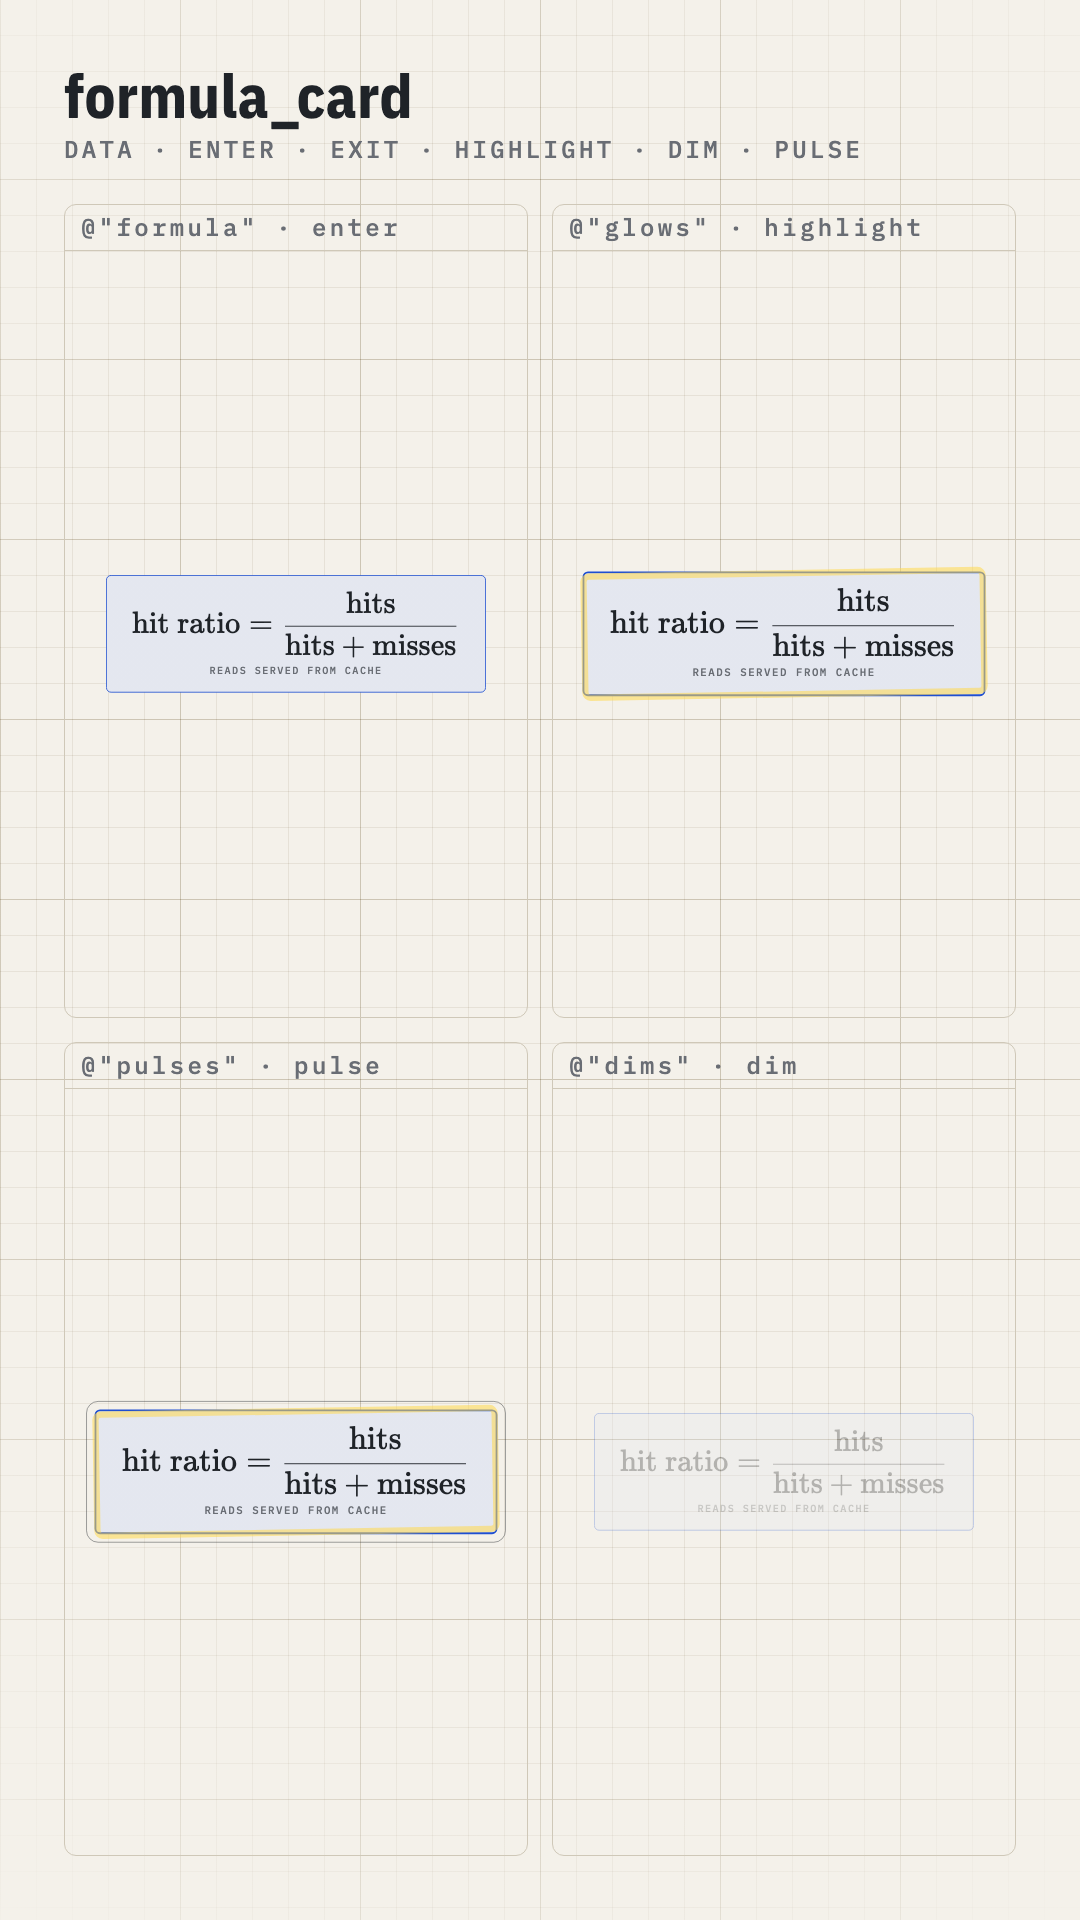
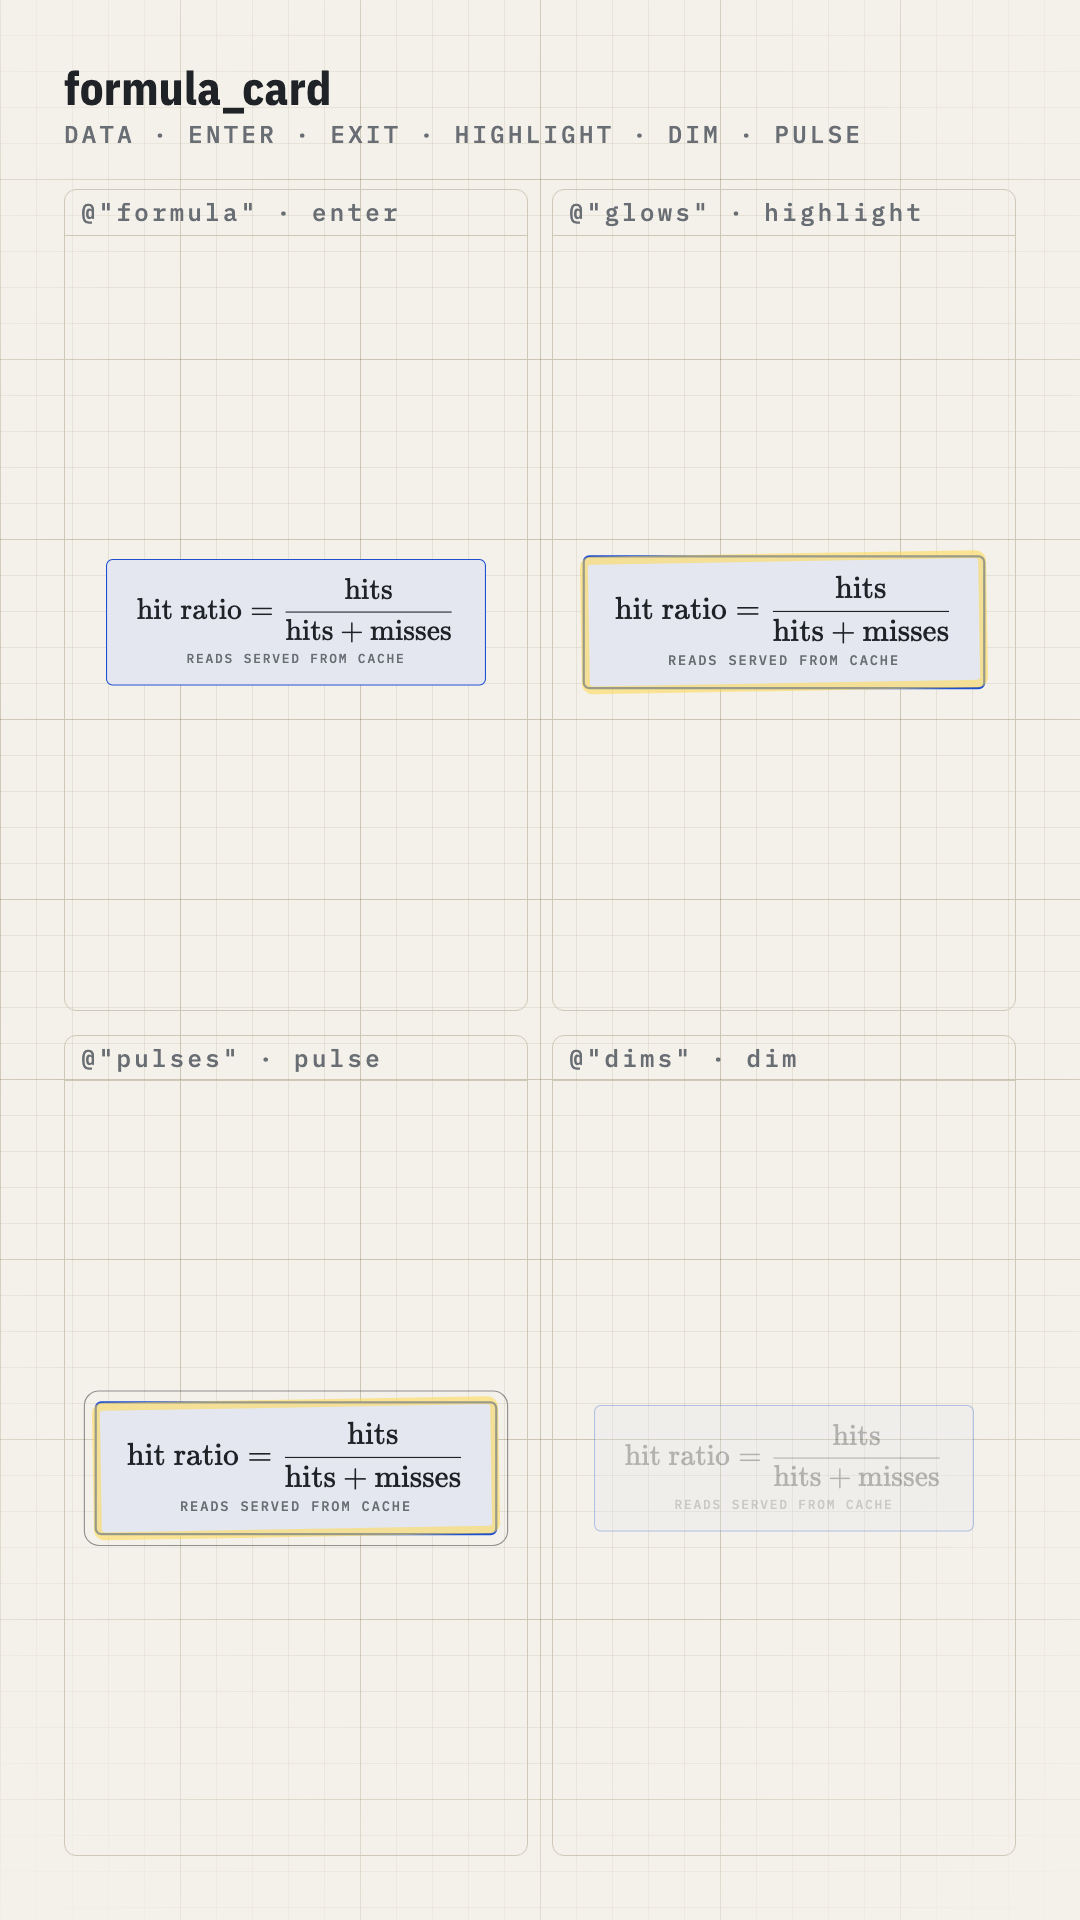
theme: drafting-paper display sizes match line width
drafting-paper's display styles (headline, title, chapter, metric) are
blueprint-dark's scaled by the display advance ratio (0.5 / 0.65), rounded
to whole px: 46 / 43 / 31 / 102 instead of 60 / 56 / 40 / 132. Line height
and letter spacing are em multipliers, so they stay proportional. Derived
from the advanceEm tokens in code (scaledText), not hard-coded.

display-fit.test.ts measures real glyph widths from the bundled fonts: every
rate-limiter headline wraps to the same number of lines in both themes (the
old sizes put "Rate limit = cap requests per client" on two lines on paper),
and the swatch's sample headline fits one line in both. Catalogue size hints
regenerated; docs/primitives and docs/themes/drafting-paper.png re-rendered.

diff --git a/packages/renderer/src/theme/display-fit.test.ts b/packages/renderer/src/theme/display-fit.test.ts
@@ -1,0 +1,92 @@
+import { fileURLToPath } from 'node:url';
+import * as fontkit from 'fontkit';
+import { describe, expect, it } from 'vitest';
+import { rateLimiterSpec } from '../../fixtures/index.ts';
+import { TYPE_SAMPLES } from '../stills/swatch-parts.tsx';
+import { getTheme } from './registry.ts';
+import { safeAreas } from './safe-area.ts';
+import type { TextStyleName, Theme } from './schema.ts';
+
+/**
+ * drafting-paper's display sizes are blueprint-dark's scaled by the ratio of their display
+ * advances, so a line holds the same text in both. Checked with real glyph widths from the
+ * bundled font files (not the size-hint approximation).
+ */
+
+const publicDir = fileURLToPath(new URL('../../public/', import.meta.url));
+const dark = getTheme('blueprint-dark');
+const paper = getTheme('drafting-paper');
+const DISPLAY: TextStyleName[] = ['headline', 'title', 'chapter', 'metric'];
+
+const fonts = new Map<string, fontkit.Font>();
+
+function fontFor(theme: Theme, style: TextStyleName): fontkit.Font {
+  const { font: role, weight } = theme.text[style];
+  const files = theme.fonts[role].files;
+  const file = files.reduce((best, f) =>
+    Math.abs(f.weight - weight) < Math.abs(best.weight - weight) ? f : best,
+  );
+  const cached = fonts.get(file.path);
+  if (cached) return cached;
+  const font = fontkit.openSync(publicDir + file.path);
+  if (!('layout' in font)) throw new Error(`${file.path} is a font collection`);
+  fonts.set(file.path, font);
+  return font;
+}
+
+/** Rendered width in px of `text` in a text style (case transform and letter spacing included). */
+function textWidth(theme: Theme, style: TextStyleName, text: string, size?: number): number {
+  const s = theme.text[style];
+  const shown = s.uppercase ? text.toUpperCase() : text;
+  const px = size ?? s.size;
+  const font = fontFor(theme, style);
+  const advance = (font.layout(shown).advanceWidth / font.unitsPerEm) * px;
+  return advance + s.letterSpacing * px * [...shown].length;
+}
+
+/** Lines a greedy word wrap needs to fit `text` into `width`. */
+function lineCount(theme: Theme, style: TextStyleName, text: string, width: number): number {
+  let lines = 1;
+  let line = '';
+  for (const word of text.split(' ')) {
+    const next = line ? `${line} ${word}` : word;
+    if (line && textWidth(theme, style, next) > width) {
+      lines += 1;
+      line = word;
+    } else {
+      line = next;
+    }
+  }
+  return lines;
+}
+
+describe('drafting-paper display sizes', () => {
+  it("scale blueprint-dark's by the display advance ratio, to whole px", () => {
+    const scale = dark.fonts.display.advanceEm / paper.fonts.display.advanceEm;
+    for (const name of DISPLAY) {
+      expect(paper.text[name].size, name).toBe(Math.round(dark.text[name].size * scale));
+      expect(paper.text[name].lineHeight, name).toBe(dark.text[name].lineHeight);
+      expect(paper.text[name].letterSpacing, name).toBe(dark.text[name].letterSpacing);
+    }
+  });
+
+  it('wrap every rate-limiter headline to the same number of lines in both themes', () => {
+    const headlines = rateLimiterSpec.script.flatMap((b) => (b.headline ? [b.headline.text] : []));
+    expect(headlines.length).toBeGreaterThan(0);
+    for (const text of headlines) {
+      const lines = (theme: Theme) =>
+        lineCount(theme, 'headline', text, safeAreas(theme).headlineBand.width);
+      expect(lines(paper), text).toBe(lines(dark));
+    }
+  });
+
+  it("fit the swatch board's sample headline on one line in both themes", () => {
+    for (const theme of [dark, paper]) {
+      const style = theme.text.headline;
+      const caption = `headline · ${style.font} ${style.size}/${style.weight}`;
+      const captionWidth = textWidth(theme, 'label', caption, 16);
+      const width = theme.canvas.width - 2 * theme.space.xl - theme.space.md - captionWidth;
+      expect(lineCount(theme, 'headline', TYPE_SAMPLES.headline, width), theme.id).toBe(1);
+    }
+  });
+});

diff --git a/packages/renderer/src/theme/themes/drafting-paper.ts b/packages/renderer/src/theme/themes/drafting-paper.ts
@@ -1,8 +1,27 @@
-import type { ThemeInput } from '../schema.ts';
+import type { TextStyleName, ThemeInput } from '../schema.ts';
 import { blueprintDark } from './blueprint-dark.ts';
 
 const INK = '#1F2328';
 const DRAFTING_BLUE = '#1F4FD1';
+/** Plex Sans Condensed capitals are ~30% wider than Barlow's (0.57 vs 0.44 em measured). */
+const DISPLAY_ADVANCE_EM = 0.65;
+
+/**
+ * Display styles shrink by blueprint-dark's display advance over ours, so a line holds the same
+ * text in both themes. Line height and letter spacing are em multipliers: they follow the size.
+ */
+const DISPLAY_SCALE = blueprintDark.fonts.display.advanceEm / DISPLAY_ADVANCE_EM;
+const DISPLAY_STYLES: readonly TextStyleName[] = ['headline', 'title', 'chapter', 'metric'];
+
+/** blueprint-dark's text styles with the display ones scaled to whole px. */
+function scaledText(): ThemeInput['text'] {
+  const text: Record<TextStyleName, ThemeInput['text'][TextStyleName]> = { ...blueprintDark.text };
+  for (const name of DISPLAY_STYLES) {
+    text[name] = { ...text[name], size: Math.round(text[name].size * DISPLAY_SCALE) };
+  }
+  return text;
+}
+
 const MONO_FALLBACK = "ui-monospace, 'SFMono-Regular', 'Cascadia Mono', Menlo, Consolas, monospace";
 
 /**
@@ -58,8 +77,7 @@ export const draftingPaper = {
     display: {
       family: 'IBM Plex Sans Condensed',
       fallback: "'Arial Narrow', sans-serif",
-      // Plex Sans Condensed capitals are ~30% wider than Barlow's (0.57 vs 0.44 em measured).
-      advanceEm: 0.65,
+      advanceEm: DISPLAY_ADVANCE_EM,
       bundledFallbacks: ['glyphFallback'],
       files: [
         { weight: 600, path: 'fonts/ibm-plex-sans-condensed/ibm-plex-sans-condensed-600.woff2' },
@@ -90,8 +108,8 @@ export const draftingPaper = {
     // Arrows, check marks and ₹ where Plex has none.
     glyphFallback: { family: 'Inter', files: blueprintDark.fonts.sans.files },
   },
-  // Same type scale, spacing and safe areas as the default, so the trial compares look only.
-  text: blueprintDark.text,
+  // blueprint-dark's type scale, display sizes scaled to Plex's wider capitals (`scaledText`).
+  text: scaledText(),
   space: blueprintDark.space,
   radius: blueprintDark.radius,
   // Lighter than the default's 4 / 6 px: softer ink outlines on paper.

diff --git a/packages/renderer/src/primitives/measure.test.ts b/packages/renderer/src/primitives/measure.test.ts
@@ -10,9 +10,9 @@ describe('approxTextWidth', () => {
     expect(approxTextWidth(theme, 'title', 'GATE')).toBe(expected);
   });
 
-  it('gives a wider display font a wider hint', () => {
+  it('gives display text about the same width in both themes (sizes scaled by advance)', () => {
     const dark = approxTextWidth(getTheme('blueprint-dark'), 'title', 'API GATEWAY');
     const paper = approxTextWidth(getTheme('drafting-paper'), 'title', 'API GATEWAY');
-    expect(paper).toBeGreaterThan(dark);
+    expect(Math.abs(paper - dark) / dark).toBeLessThan(0.03);
   });
 });

diff --git a/packages/renderer/src/stills/swatch-parts.tsx b/packages/renderer/src/stills/swatch-parts.tsx
@@ -163,7 +163,7 @@ export function AccentSamples({ theme, accents }: Props & { accents: SampleAccen
   );
 }
 
-const TYPE_SAMPLES: Record<TextStyleName, string> = {
+export const TYPE_SAMPLES: Record<TextStyleName, string> = {
   headline: 'Cache = fast copy',
   title: 'The hot key',
   chapter: '— 2 · Why does it miss?',

diff --git a/docs/catalogue.md b/docs/catalogue.md
@@ -25,7 +25,7 @@ A single line-drawn symbol from the asset library (server, database, user, lock,
 | `asset` | string | yes | Asset id from the asset library (an unknown id is drawn as a placeholder and reported). (max length 64) |
 | `semantic` | `neutral` \| `focus` \| `ok` \| `problem` \| `concept` | no | Stroke colour: neutral, focus, ok, problem or concept. (default `"neutral"`) |
 
-**Size hint** (example, drafting-paper): 120 × 120 px (min 120 × 120).
+**Size hint** (example, drafting-paper): 92 × 92 px (min 92 × 92).
 
 **Example:**
 
@@ -58,7 +58,7 @@ A flat everyday object from the asset library (phone, car, ticket, parcel, pizza
 | `caption` | string | yes | What the object is in this story, shown under it. (min length 1, max length 24) |
 | `semantic` | `neutral` \| `focus` \| `ok` \| `problem` \| `concept` | no | Tile colour: neutral, focus, ok, problem or concept. (default `"neutral"`) |
 
-**Size hint** (example, drafting-paper): 302 × 230 px (min 302 × 230).
+**Size hint** (example, drafting-paper): 302 × 188 px (min 302 × 188).
 
 **Example:**
 
@@ -92,7 +92,7 @@ A titled card for one component of a system (a service, server, database, client
 | `icon` | string | no | Asset id from the asset library (an unknown id is drawn as a placeholder and reported). (max length 64) |
 | `semantic` | `neutral` \| `focus` \| `ok` \| `problem` \| `concept` | no | Border and glow colour: neutral, focus, ok, problem or concept. (default `"neutral"`) |
 
-**Size hint** (example, drafting-paper): 713 × 152 px (min 713 × 152).
+**Size hint** (example, drafting-paper): 573 × 138 px (min 573 × 138).
 
 **Example:**
 
@@ -234,7 +234,7 @@ A card with one typeset formula (LaTeX, rendered by KaTeX) and an optional capti
 | `caption` | string | no | Optional plain-words reading of the formula, shown under it. (min length 1, max length 48) |
 | `semantic` | `neutral` \| `focus` \| `ok` \| `problem` \| `concept` | no | Border and glow colour: neutral, focus, ok, problem or concept. (default `"concept"`) |
 
-**Size hint** (example, drafting-paper): 811 × 278 px (min 811 × 278).
+**Size hint** (example, drafting-paper): 642 × 236 px (min 642 × 236).
 
 **Example:**
 
@@ -558,7 +558,7 @@ A big number with an optional unit and caption. Without a `count` event it shows
 | `semantic` | `neutral` \| `focus` \| `ok` \| `problem` \| `concept` | no | Colour of the number: neutral, focus, ok, problem or concept. (default `"focus"`) |
 | `decimals` | integer | no | Digits after the decimal point. (min 0, max 2, default `0`) |
 
-**Size hint** (example, drafting-paper): 828 × 201 px (min 828 × 201).
+**Size hint** (example, drafting-paper): 711 × 171 px (min 711 × 171).
 
 **Example:**
 
@@ -597,7 +597,7 @@ A big number changing to another, shown as "10 → 9": the old number in one col
 | `toSemantic` | `neutral` \| `focus` \| `ok` \| `problem` \| `concept` | no | Colour of the new number: neutral, focus, ok, problem or concept. (default `"focus"`) |
 | `decimals` | integer | no | Digits after the decimal point. (min 0, max 2, default `0`) |
 
-**Size hint** (example, drafting-paper): 876 × 164 px (min 876 × 164).
+**Size hint** (example, drafting-paper): 759 × 134 px (min 759 × 134).
 
 **Example:**
 
@@ -639,7 +639,7 @@ A stacked bar splitting a time budget into steps (RIDE | PACK), each segment as 
 | `budgetSec` | integer | no | Optional time budget: a marker on the bar; time past it is drawn red. (min 1, max 5999) |
 | `label` | string | no | Optional caption: what the time is for, e.g. ORDER TO DOOR. (min length 1, max length 24) |
 
-**Size hint** (example, drafting-paper): 840 × 201 px (min 310 × 201).
+**Size hint** (example, drafting-paper): 840 × 187 px (min 310 × 187).
 
 **Example:**
 
@@ -684,7 +684,7 @@ A card with one big figure, a label under it, and a small source footnote. The f
 | `source` | string | yes | Where the figure comes from, shown as a footnote. Required. (min length 1, max length 60) |
 | `semantic` | `neutral` \| `focus` \| `ok` \| `problem` \| `concept` | no | Colour of the value: neutral, focus, ok, problem or concept. (default `"focus"`) |
 
-**Size hint** (example, drafting-paper): 1029 × 275 px (min 1029 × 275).
+**Size hint** (example, drafting-paper): 815 × 245 px (min 815 × 245).
 
 **Example:**
 
@@ -718,7 +718,7 @@ A countdown ring with the time left as mm:ss in the middle. It shows `durationSe
 | `label` | string | no | Caption under the ring: what the time is for. (min length 1, max length 24) |
 | `semantic` | `neutral` \| `focus` \| `ok` \| `problem` \| `concept` | no | Ring colour while running: neutral, focus, ok, problem or concept. (default `"focus"`) |
 
-**Size hint** (example, drafting-paper): 317 × 362 px (min 317 × 362).
+**Size hint** (example, drafting-paper): 302 × 290 px (min 302 × 290).
 
 **Example:**
 

diff --git a/docs/TODO.md b/docs/TODO.md
@@ -36,9 +36,10 @@ Follow-ups noted during tasks instead of done. Reference prompt IDs from the des
 - [ ] **Theme — Safe areas live in the theme.** Platform exclusion zones are platform facts;
       `drafting-paper` reuses `blueprintDark.safeArea`. Move platform zones out of the theme
       before a third theme or a recalibration.
-- [ ] **Theme — Type scale per font.** `drafting-paper` reuses the default type scale; Plex Sans
-      Condensed is ~30% wider than Barlow Condensed, so headlines wrap to two lines more often.
-      Tune sizes if the theme graduates from trial.
+- [ ] **Theme — Non-display type per font.** `drafting-paper` scales only its display styles
+      (headline, title, chapter, metric) by the display advance ratio. Mono and sans styles keep
+      blueprint-dark's sizes (Plex Mono matches JetBrains Mono's 0.6 em; Plex Sans is slightly
+      narrower than Inter). Scale them too if a future font differs.
 - [ ] **P1C.9 — Run state transitions.** The orchestrator takes over run state transitions. Until
       then the worker only moves a run to `failed` when one of its jobs fails (unless the handler
       sets `failsRun: false`); `queued → running`, gate pauses and `done` belong to the

diff --git a/CLAUDE.md b/CLAUDE.md
@@ -236,7 +236,9 @@ primitive to `docs/primitives/<id>.png`.
   styles, spacing, radius, stroke widths, safe-area margins and `numberLocale` (on-screen number
   grouping; `en-IN` gives 1,00,000). `tint.fills` overrides a semantic's soft fill (paper's
   focus: ink text on a yellow highlighter); each font role has `advanceEm` for size hints
-  (`approxTextWidth`). `src/theme` is React-free and
+  (`approxTextWidth`). drafting-paper's display sizes are blueprint-dark's scaled by the
+  display `advanceEm` ratio (`scaledText`), so a line holds the same text in both themes
+  (`display-fit.test.ts` checks it with real glyph widths). `src/theme` is React-free and
   exported as `@explainer-studio/renderer/theme`, so Node scripts, the layout engine and the
   studio can import it.
 - **Theme selection:** `VideoFromSpec`/`BeatFromSpec` take an optional `themeId` (unknown ids
